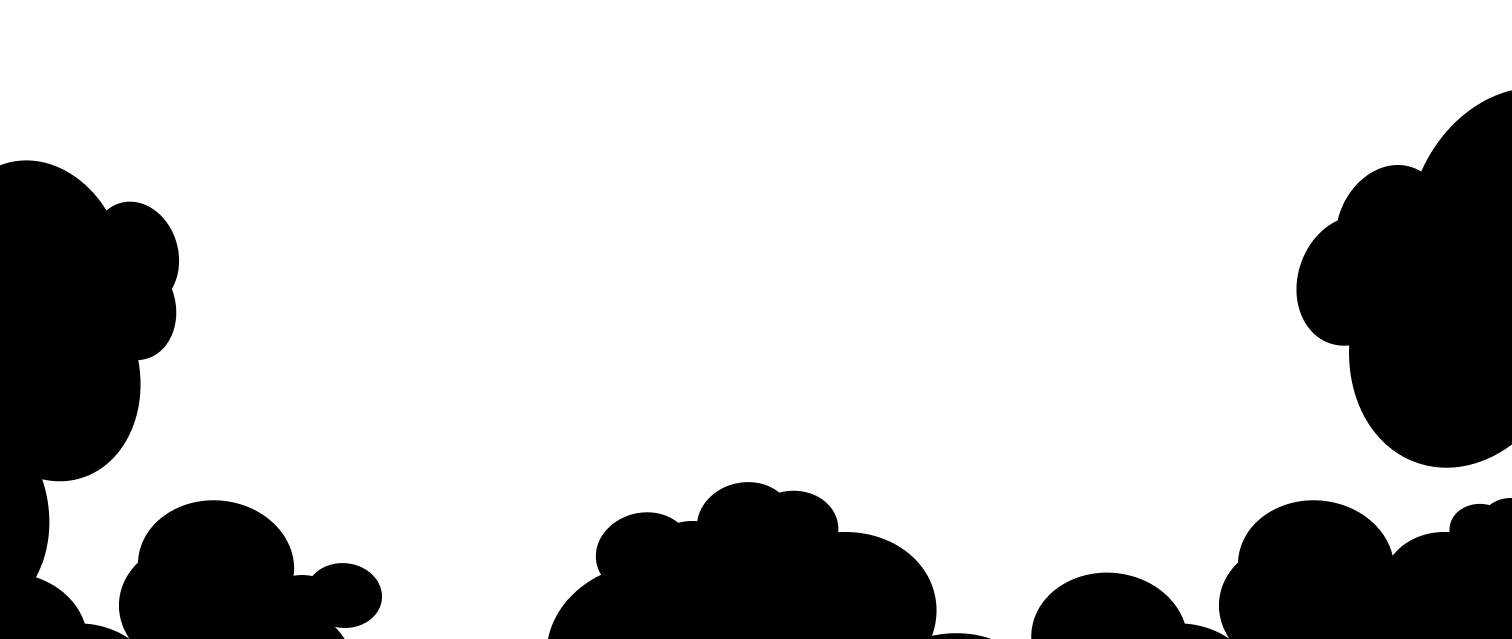
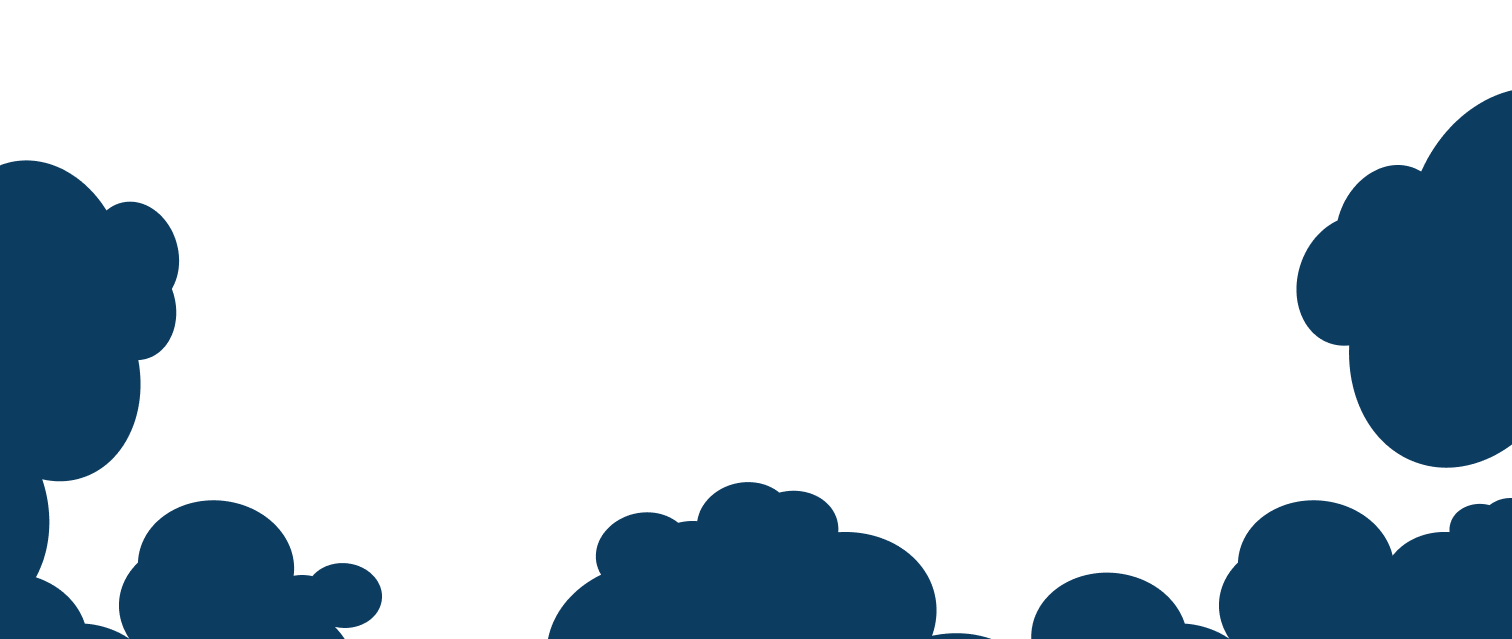
feat: add illoSurfacePrimary color (for clouds)
- update cloud colours in all illustrations (darkmode)
- add illoSurface colour to match darkmode clouds
- change prefooter bg colour to illoSurface

diff --git a/src/app/globals.css b/src/app/globals.css
@@ -62,10 +62,11 @@
 
     --lightgrey-50: #fafafa;
     --darkgrey-950: #121212;
+    --darkgrey-600: #36435a;
 
     --darkblue-900: #0a2d49;
     --darkblue-800: #0d3c61;
-    --darkblue-700: #114b7a;
+    --darkblue-700: #0d3c61;
 
     --darkyellow-900: #4d3a02;
     --darkyellow-800: #664d03;
@@ -115,7 +116,7 @@
     --border-em-secondary: var(--primary-200-green);
     --border-em-tertiary: var(--primary-200-yellow);
 
-    --toggle-background: var(--primary-200-blue);
+    --illo-surface-primary: var(--neutralcore-white);
 
     /* Shadcn Colors */
 
@@ -189,6 +190,8 @@
     --border-em-primary: var(--darkblue-700);
     --border-em-secondary: var(--darkgreen-700);
     --border-em-tertiary: var(--darkyellow-700);
+
+    --illo-surface-primary: var(--darkblue-700);
 
     /* Shadcn Colors */
 

diff --git a/src/components/HomePage.tsx b/src/components/HomePage.tsx
@@ -166,7 +166,7 @@ function HomePage() {
           className="w-full h-auto"
           alt={"boy kicking ball"}
         />
-        <div className="z-0 relative flex flex-col items-center justify-center text-center my-0 bg-backgroundPrimary bg-contain	 bg-no-repeat !pt-0	gap-16 px-6 py-12 md:py-[84px]">
+        <div className="z-0 relative flex flex-col items-center justify-center text-center my-0 bg-illoSurfacePrimary bg-contain	 bg-no-repeat !pt-0	gap-16 px-6 py-12 md:py-[84px]">
           <div className="z-[1] text-center col-start-1 md:col-start-2 col-end-5 md:col-end-8 lg:col-end-12 flex flex-col gap-6 items-center justify-center">
             <Title className="xl:max-w-[75%]">
               The hardest part is taking that first step

diff --git a/tailwind.config.ts b/tailwind.config.ts
@@ -83,6 +83,8 @@ const config = {
         borderEmSecondary : "var(--border-em-secondary)",
         borderEmTertiary : "var(--border-em-tertiary)",
 
+        illoSurfacePrimary: "var(--illo-surface-primary)",
+
         // Shadcn Colours
         border: "hsl(var(--border))",
         input: "hsl(var(--input))",
